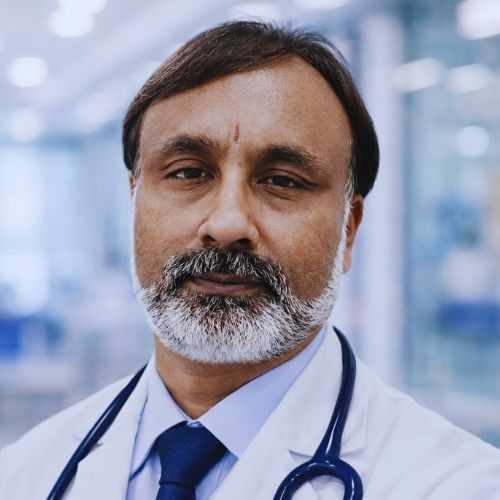
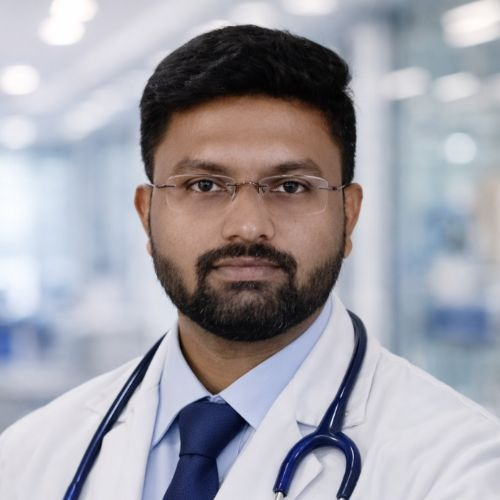
Sync doctor seed data, update Dr. Shankar profile assets, and fix photo interchange

diff --git a/src/lib/data/seed-data.ts b/src/lib/data/seed-data.ts
@@ -5,10 +5,10 @@ export const SEED_DATA = {
             status: "published",
             name: "Dr. P. Shankar",
             slug: "dr-p-shankar",
-            designation: "Chairman & HOD - General Surgery | Proctology & Laparoscopic Surgery",
+            designation: "Chairman & HOD - General Surgery | Top Proctologist in India & Tamil Nadu",
             department: "General Surgery",
             image: "/images/doctors/dr-shankar.jpg",
-            bio: "Dr. P. Shankar is the esteemed Chairman of Indira Hospital and is widely recognized as the best proctologist in India and Tamil Nadu. A veteran General Surgeon with over 30 years of clinical and administrative excellence, he has been instrumental in bringing advanced healthcare to the Vellore region. He specializes in advanced Proctology (Laser Piles, Fistula, Fissure), Laparoscopic Surgery, and Surgical Gastroenterology. His expertise also extends to Diabetic Foot Care and complex General Surgical procedures, ensuring world-class healthcare delivery.",
+            bio: "Dr. P. Shankar is the esteemed Chairman of Indira Hospital and is widely recognized as the best proctologist in India and Tamil Nadu. A veteran General Surgeon with over 30 years of clinical and administrative excellence, he specializes in advanced Proctology (Laser Piles, Laser Fistula, Fissure), Laparoscopic Surgery (Hernia, Gallbladder, Appendix), and Surgical Gastroenterology. His expertise also extends to Diabetic Foot Care and complex General Surgical procedures. Under his leadership, Indira Hospital has become a center of excellence for minimally invasive and day-care surgeries, ensuring world-class healthcare delivery with a focus on patient safety and rapid recovery.",
             education: [
                 { degree: "MBBS", institution: "Stanley Medical College", year: "1988" },
                 { degree: "MS - General Surgery", institution: "Madras Medical College", year: "1993" }
@@ -519,7 +519,7 @@ export const SEED_DATA = {
             slug: "dr-srinivasan-karbar",
             designation: "Emergency Medicine Specialist",
             department: "Emergency Medicine",
-            image: "/images/doctors/dr-srinivasan-karbar.jpg",
+            image: "/images/doctors/dr-jackson-p-john.jpg",
             bio: "Dr. Srinivasan Karbar is an experienced Emergency Medicine specialist with over 10 years of clinical experience. He currently serves as a consultant Emergency physician at Indira Super Speciality Hospital. He is actively involved in leading the emergency team, mentoring junior doctors, and ensuring the delivery of high-quality critical care.",
             education: [
                 { degree: "MRCEM Part A", institution: "Royal College Of Emergency Medicine, UK", year: "2024" },
@@ -549,7 +549,7 @@ export const SEED_DATA = {
             slug: "dr-jackson-p-john",
             designation: "Emergency Medicine Specialist",
             department: "Emergency Medicine",
-            image: "/images/doctors/dr-jackson-p-john.jpg",
+            image: "/images/doctors/dr-srinivasan-karbar.jpg",
             bio: "Dr. Jackson P John is an Emergency Medicine Specialist with over 8 years of experience. He is well-versed in emergency procedures like airway management, resuscitation, and surgical & trauma management. He previously served as an Emergency Medicine Specialist in the Oman Ministry of Health.",
             education: [
                 { degree: "MBBS", institution: "D.Y Patil University Navi Mumbai", year: "2017" },
